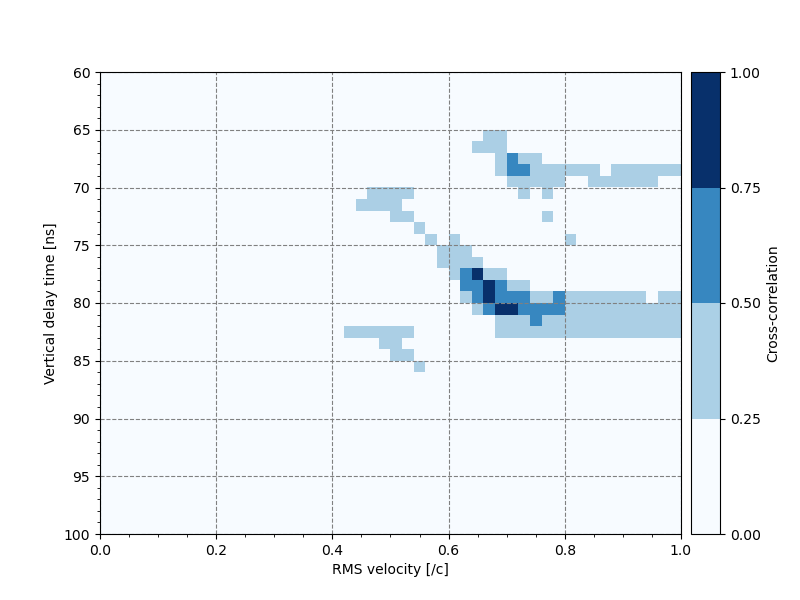
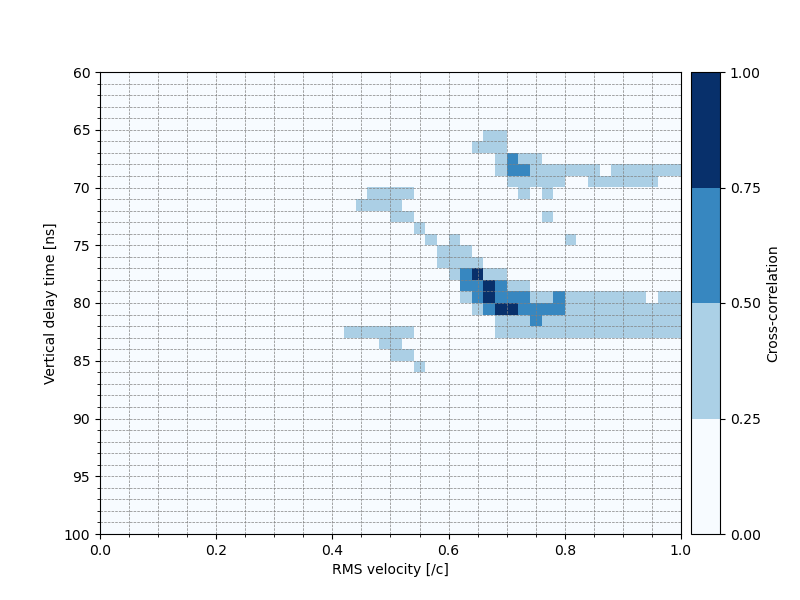
remake select plots

diff --git a/tools/plot_Bscan.py b/tools/plot_Bscan.py
@@ -137,7 +137,7 @@ if __name__ == "__main__":
 
     # データの取得とプロットの作成を実行？
     if args.select_rx:
-        rx = 5
+        rx = 21
         outputdata, dt = get_output_data(args.outputfile, rx, args.rx_component)
         plthandle = mpl_plot(args.outputfile, outputdata, dt, rx, args.rx_component, args.closeup)
     else:

diff --git a/tools/estimate_Vrms.py b/tools/estimate_Vrms.py
@@ -162,9 +162,9 @@ if not os.path.exists(output_dir_path):
 """
 select area [ns]
 """
-select_start = 210
-select_end = 250
-select_startx = 0.3
+select_start = 540
+select_end = 580
+select_startx = 0
 select_endx = 1.0
 """
 select area [ns]
